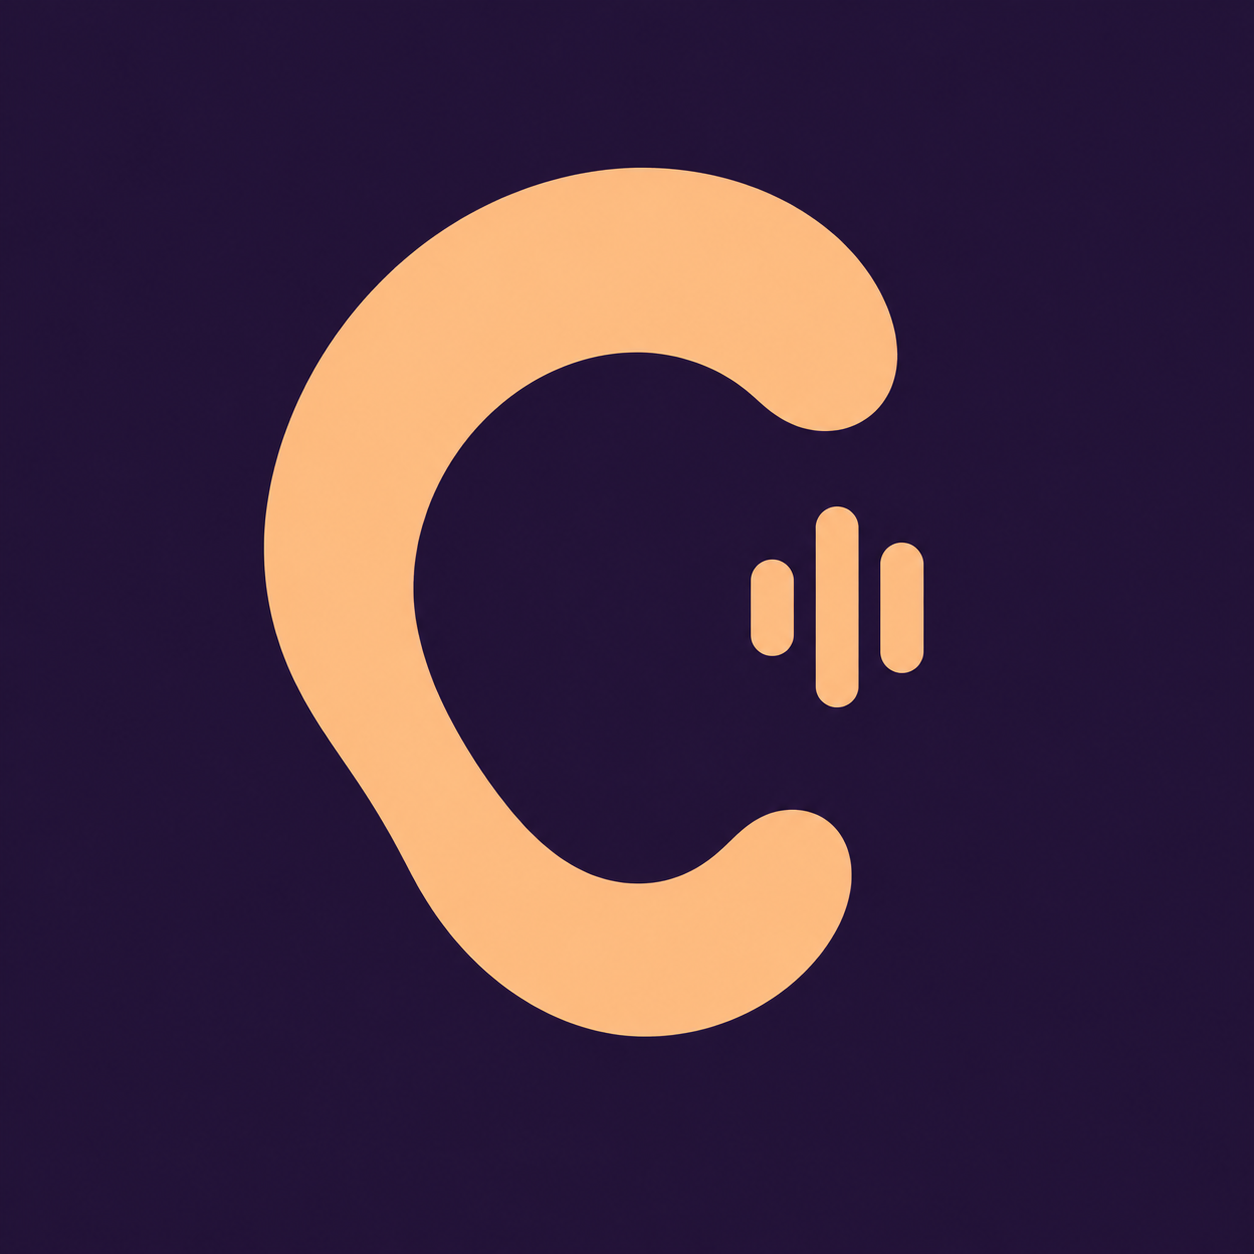
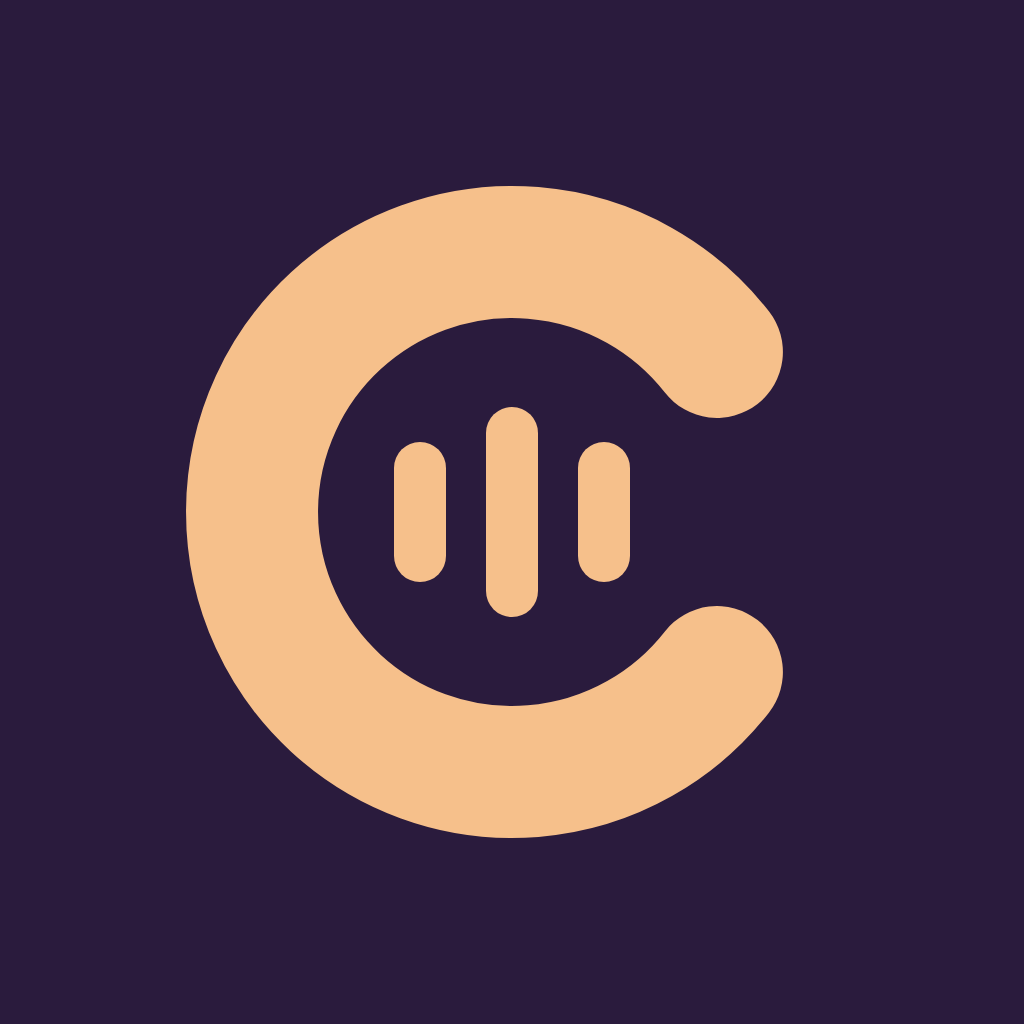
统一 Croon 插件名称与图标

diff --git a/src/extension.js b/src/extension.js
@@ -2,11 +2,11 @@ const vscode = require('vscode');
 const { TingApi, serverAddress } = require('./api');
 const { Player, sidebarId, seconds } = require('./player');
 
-const sessionKey = 'tingReader.session';
+const sessionKey = 'croon.session';
 
 async function signIn(context, current) {
   const address = await vscode.window.showInputBox({
-    title: 'Ting Reader 服务器',
+    title: 'Croon 服务器',
     prompt: '输入直连或反向代理地址，包含端口和路径前缀（如有）。',
     value: current?.address || '',
     placeHolder: 'https://ting.example.com',
@@ -22,12 +22,12 @@ async function signIn(context, current) {
   });
   if (address === undefined) return;
   const username = await vscode.window.showInputBox({
-    title: 'Ting Reader 用户名', ignoreFocusOut: true,
+    title: 'Croon 用户名', ignoreFocusOut: true,
     validateInput: (value) => value.trim() ? null : '请输入用户名。',
   });
   if (username === undefined) return;
   const password = await vscode.window.showInputBox({
-    title: 'Ting Reader 密码', password: true, ignoreFocusOut: true,
+    title: 'Croon 密码', password: true, ignoreFocusOut: true,
     validateInput: (value) => value ? null : '请输入密码。',
   });
   if (password === undefined) return;
@@ -70,7 +70,7 @@ async function activate(context) {
     try {
       await action(...args);
     } catch (error) {
-      void vscode.window.showErrorMessage(`Ting Reader · ${error.message}`);
+      void vscode.window.showErrorMessage(`Croon · ${error.message}`);
     } finally {
       busy = false;
     }
@@ -129,10 +129,10 @@ async function activate(context) {
     vscode.window.registerWebviewViewProvider(sidebarId, player, {
       webviewOptions: { retainContextWhenHidden: true },
     }),
-    vscode.commands.registerCommand('tingReader.browse', () => player.reveal('browse')),
-    vscode.commands.registerCommand('tingReader.recent', () => player.reveal('recent')),
-    vscode.commands.registerCommand('tingReader.player', () => player.reveal('playback')),
-    vscode.commands.registerCommand('tingReader.signIn', run(async () => {
+    vscode.commands.registerCommand('croon.browse', () => player.reveal('browse')),
+    vscode.commands.registerCommand('croon.recent', () => player.reveal('recent')),
+    vscode.commands.registerCommand('croon.player', () => player.reveal('playback')),
+    vscode.commands.registerCommand('croon.signIn', run(async () => {
       const next = await signIn(context, api);
       if (next) {
         await player.capture();
@@ -142,13 +142,13 @@ async function activate(context) {
         await player.reveal('browse');
       }
     })),
-    vscode.commands.registerCommand('tingReader.signOut', run(async () => {
+    vscode.commands.registerCommand('croon.signOut', run(async () => {
       await player.capture();
       player.clearPlayback();
       await context.secrets.delete(sessionKey);
       api = undefined;
       player.setSignedIn(false);
-      void vscode.window.showInformationMessage('已退出 Ting Reader。');
+      void vscode.window.showInformationMessage('已退出 Croon。');
     })),
   );
 }

diff --git a/src/player.js b/src/player.js
@@ -2,7 +2,7 @@ const vscode = require('vscode');
 const { randomBytes } = require('node:crypto');
 const { AudioProxy } = require('./audio-proxy');
 
-const sidebarId = 'tingReader.sidebar';
+const sidebarId = 'croon.sidebar';
 
 function seconds(value) {
   const total = Math.max(0, Math.floor(Number(value) || 0));
@@ -25,15 +25,15 @@ function html(webview, media, origin) {
   <meta name="viewport" content="width=device-width, initial-scale=1">
   <meta http-equiv="Content-Security-Policy" content="default-src 'none'; media-src ${origin}; style-src ${webview.cspSource}; script-src 'nonce-${nonce}';">
   <link href="${resource('player.css')}" rel="stylesheet">
-  <title>Ting Reader 播放器</title>
+  <title>Croon 播放器</title>
 </head>
 <body>
   <main class="player">
     <section id="signed-out" hidden>
-      <p>登录 Ting Reader 后即可浏览书库和同步收听进度。</p>
-      <button class="primary" id="sign-in" type="button">登录 Ting Reader</button>
+      <p>登录 Croon 后即可浏览书库和同步收听进度。</p>
+      <button class="primary" id="sign-in" type="button">登录 Croon</button>
     </section>
-    <nav id="navigation" aria-label="Ting Reader" hidden>
+    <nav id="navigation" aria-label="Croon" hidden>
       <button id="browse" type="button">书库</button>
       <button id="recent" type="button">续听</button>
       <button id="playback" type="button">播放器</button>
@@ -130,7 +130,7 @@ class Player {
     view.webview.options = { enableScripts: true, localResourceRoots: [media] };
     const messages = view.webview.onDidReceiveMessage((message) => {
       void this.receive(message).catch((error) => {
-        if (this.view === view) void vscode.window.showErrorMessage(`Ting Reader · ${error.message}`);
+        if (this.view === view) void vscode.window.showErrorMessage(`Croon · ${error.message}`);
       });
     });
     view.onDidDispose(() => {
@@ -232,7 +232,7 @@ class Player {
       case 'ready':
         this.ready = true;
         this.post({
-          type: 'preferences', ...this.context.globalState.get('tingReader.playback'),
+          type: 'preferences', ...this.context.globalState.get('croon.playback'),
         });
         this.setSignedIn(this.signedIn);
         this.postChapters();
@@ -240,7 +240,7 @@ class Player {
         this.postSection();
         return;
       case 'preferences':
-        await this.context.globalState.update('tingReader.playback', {
+        await this.context.globalState.update('croon.playback', {
           speed: message.speed, volume: message.volume,
         });
         return;
@@ -248,7 +248,7 @@ class Player {
         if (message.id === this.snapshot?.id) this.snapshot.finish();
         return;
       case 'signIn':
-        await vscode.commands.executeCommand('tingReader.signIn');
+        await vscode.commands.executeCommand('croon.signIn');
         return;
       case 'catalog':
         await this.onCatalog(message);

diff --git a/src/api.js b/src/api.js
@@ -5,7 +5,7 @@ class ApiError extends Error {
       403: '当前账号没有访问权限。',
       404: '服务端找不到请求的内容，请检查服务器地址或刷新书库。',
       429: '请求过于频繁，请稍后重试。',
-    }[status] || `Ting Reader 服务端返回 HTTP ${status}。`);
+    }[status] || `Croon 服务端返回 HTTP ${status}。`);
     this.status = status;
   }
 }
@@ -44,7 +44,7 @@ class TingApi {
         signal: AbortSignal.timeout(15000),
       });
     } catch {
-      throw new Error('无法连接 Ting Reader，请检查地址、网络或 HTTPS 证书后重试。');
+      throw new Error('无法连接 Croon，请检查地址、网络或 HTTPS 证书后重试。');
     }
 
     if (!response.ok) {
@@ -55,7 +55,7 @@ class TingApi {
     try {
       return await response.json();
     } catch {
-      throw new Error('服务器未返回有效的 Ting Reader 数据，请检查服务地址。');
+      throw new Error('服务器未返回有效的 Croon 数据，请检查服务地址。');
     }
   }
 

diff --git a/README.md b/README.md
@@ -1,16 +1,16 @@
-# Ting Reader for VS Code
+# Croon for VS Code
 
-在桌面版 VS Code 的左侧边栏连接 Ting Reader，边写代码边听书。播放进度通过 Ting Reader 服务器同步，可在同一账号的其他客户端继续收听。
+在桌面版 VS Code 的左侧边栏连接 Croon，边写代码边听书。播放进度通过 Croon 服务器同步，可在同一账号的其他客户端继续收听。
 
 ## 安装与使用
 
 1. 从 [GitHub Releases](https://github.com/sliencio/croon_vscode/releases/latest) 下载 `.vsix`。打开 VS Code 扩展视图右上角的菜单，选择「从 VSIX 安装」。
-2. 点击 VS Code 最左侧活动栏里的 **耳廓 C 图标**。首次使用时点「登录 Ting Reader」，输入服务器地址、用户名和密码。地址支持反向代理路径前缀，例如 `https://example.com/ting`。
+2. 点击 VS Code 最左侧活动栏里的 **耳廓 C 图标**。首次使用时点「登录 Croon」，输入服务器地址、用户名和密码。地址支持反向代理路径前缀，例如 `https://example.com/ting`。
 3. 在左侧边栏浏览书库、搜索书名，或从「续听」选择最近收听过的书。播放器会在同一侧边栏显示。点击「播放」从已保存的进度继续。
-4. 在播放器里可以搜索章节、快退 15 秒、快进 30 秒，以及调整倍速和音量。章节播完会自动接播。切到资源管理器继续写代码，音频会在后台播放。暂停时可切回 Ting Reader 点「暂停」。
-5. 活动栏隐藏时，可在命令面板运行 **Ting Reader: 打开播放器**。切换账号或退出登录，可使用 Ting Reader 侧边栏标题处的更多菜单。
+4. 在播放器里可以搜索章节、快退 15 秒、快进 30 秒，以及调整倍速和音量。章节播完会自动接播。切到资源管理器继续写代码，音频会在后台播放。暂停时可切回 Croon 点「暂停」。
+5. 活动栏隐藏时，可在命令面板运行 **Croon: 打开播放器**。切换账号或退出登录，可使用 Croon 侧边栏标题处的更多菜单。
 
-需要可从桌面 VS Code 访问的 Ting Reader 2.x 服务器。服务端原始音频优先直放，加载失败会尝试由服务端 FFmpeg 转成 MP3。转码模式按服务端报告的章节时长定位，时长未知时可使用快退或切章。插件使用 VS Code 的 SecretStorage 保存登录令牌，密码只在登录时使用。音频通过本机回环地址转发，播放器不会接收服务端登录令牌。进度在开始、暂停、直放跳转和播完时同步，收听期间约每 10 秒同步一次。
+需要可从桌面 VS Code 访问的 Croon 2.x 服务器。服务端原始音频优先直放，加载失败会尝试由服务端 FFmpeg 转成 MP3。转码模式按服务端报告的章节时长定位，时长未知时可使用快退或切章。插件使用 VS Code 的 SecretStorage 保存登录令牌，密码只在登录时使用。音频通过本机回环地址转发，播放器不会接收服务端登录令牌。进度在开始、暂停、直放跳转和播完时同步，收听期间约每 10 秒同步一次。
 
 ## 开发与发布
 
